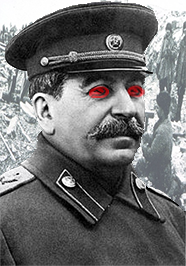
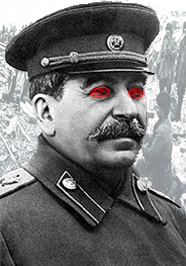
Organized files

diff --git a/site/public/index.html b/site/public/index.html
@@ -38,6 +38,7 @@
                     Galleri
                 </a>
             </ul>
+            <img src="./img/menu-image.png" alt="Send you to gulag, damned capitalist pig...">
         </div>
         <nav>
             <div class="icons" onclick="toggleMenu()">
